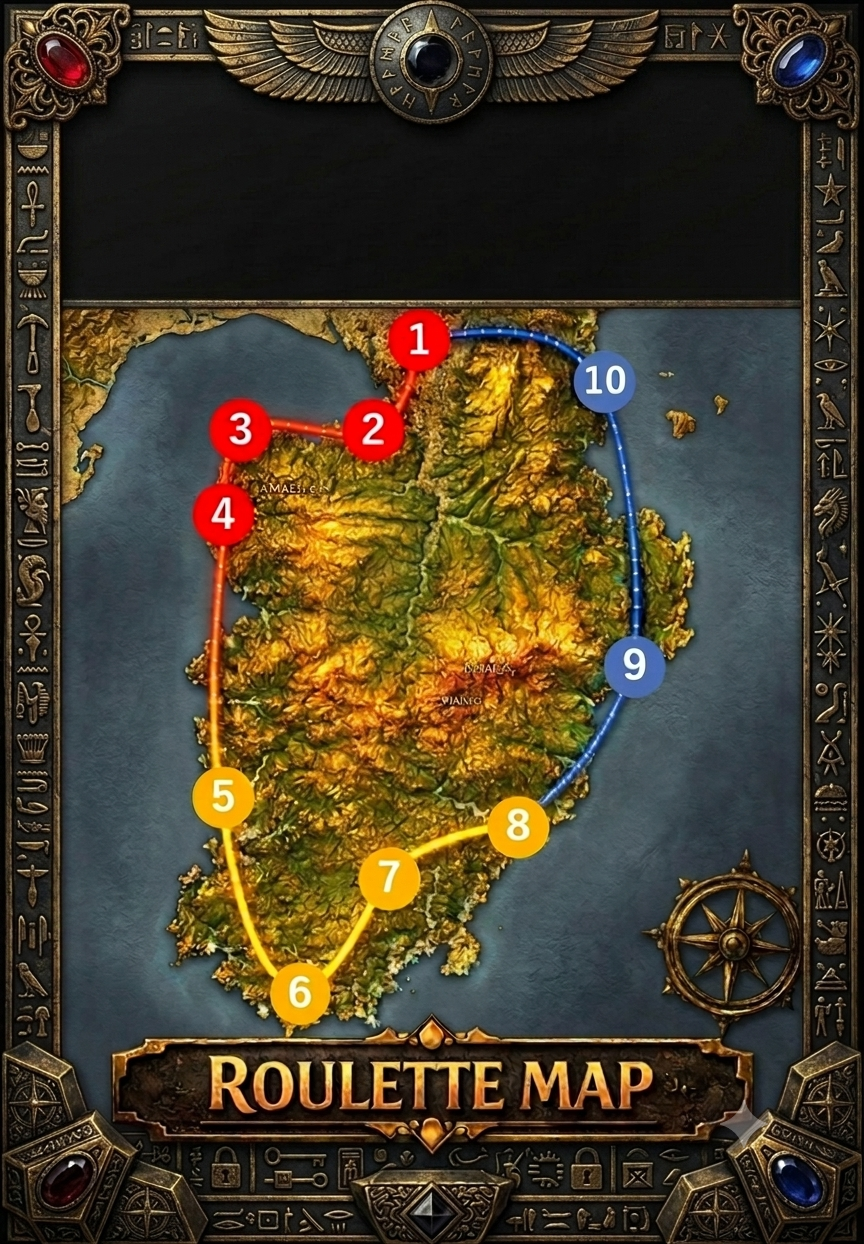
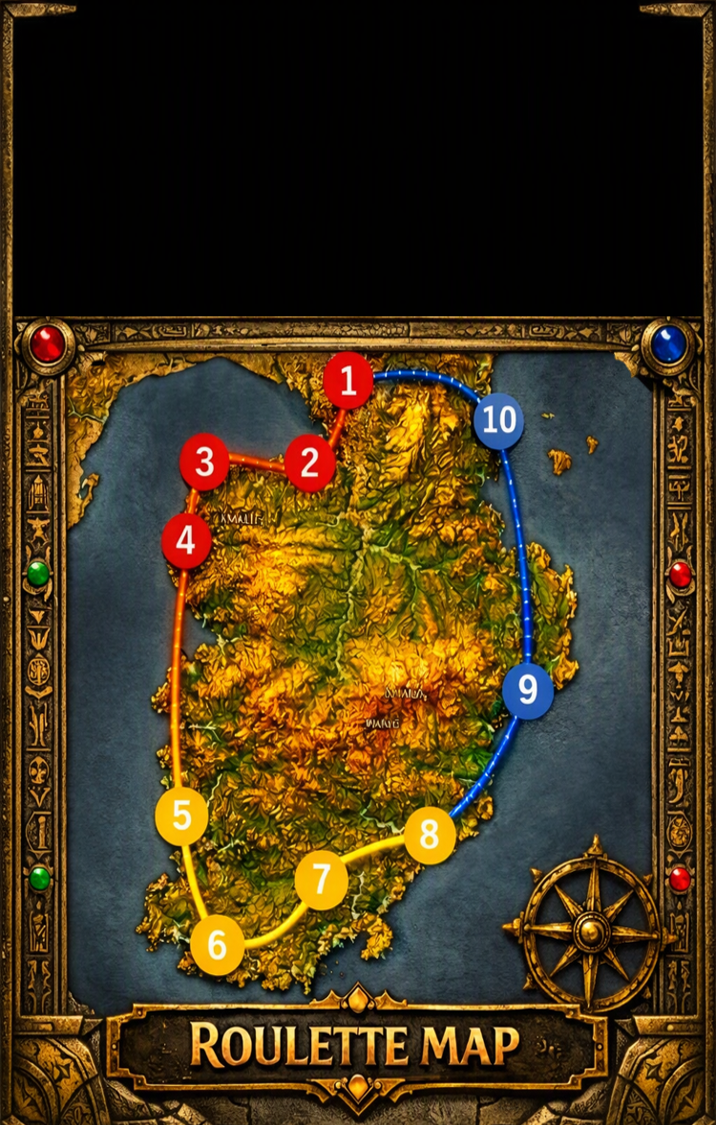
Add files via upload

diff --git a/missions.js b/missions.js
@@ -39,6 +39,10 @@ function createSpark(x, y) {
     setTimeout(() => spark.remove(), 600);
 }
 
+// ★ タップ音（カチッ）
+const clickSound = new Audio("sounds/click.mp3");
+clickSound.volume = 0.5;
+
 function renderMissions() {
     missionList.innerHTML = "";
 
@@ -65,7 +69,12 @@ function renderMissions() {
 
         card.onclick = (e) => {
 
+            // 火花
             createSpark(e.clientX, e.clientY);
+
+            // カチッ音
+            clickSound.currentTime = 0;
+            clickSound.play().catch(() => {});
 
             // ミッション13だけ特別仕様
             if (index === 12) {
@@ -122,4 +131,3 @@ resetBtn.onclick = (e) => {
 };
 
 renderMissions();
-

diff --git a/map.css b/map.css
@@ -60,12 +60,12 @@ body {
 
 /* 上段（①〜⑤） */
 .map-number-row.top {
-    top: 9%;
+    top: 7%;
 }
 
 /* 下段（⑥〜⑩） */
 .map-number-row.bottom {
-    top: 15%;
+    top: 19%;
 }
 
 /* 聖なる黒金フレームの数字ボタン */
